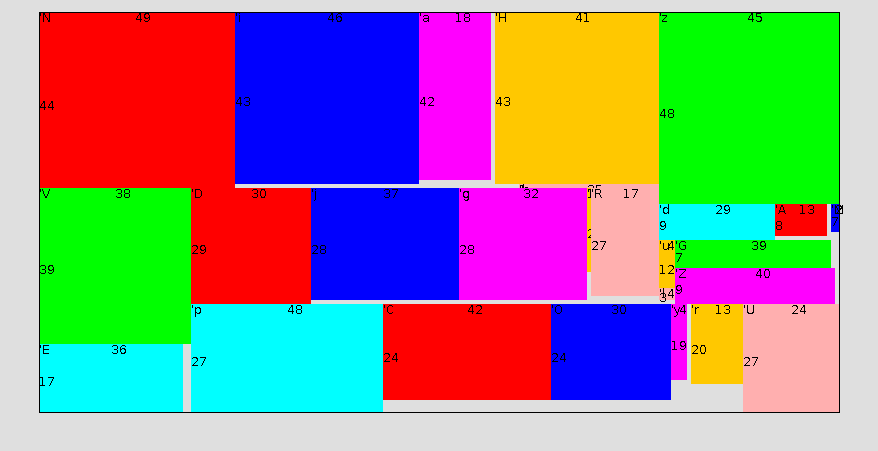
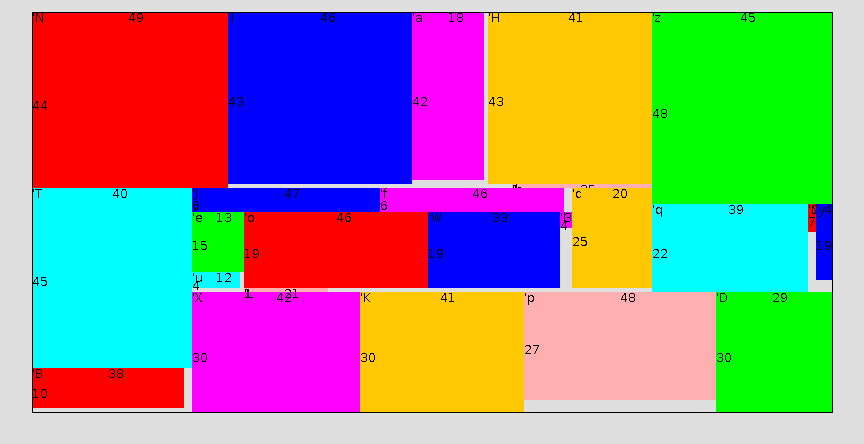
refactoring

diff --git a/README.md b/README.md
@@ -114,6 +114,6 @@ Scala 2.9.1.final (OpenJDK Server VM, Java 1.6.0_24).
 
 ### 解答.2 BEST
 
-隙間の総面積は696。
+隙間の総面積は533。
 
-![blank=696 N,i,a,H,b,z,d,A,M,Z,u,l,G,p,C,O,y,r,U,V,E,D,j,g,L,R](https://raw.github.com/tono-nakae/package-loading-problem/master/Answer2-best.png)
+![blank=533 N,i,a,H,b,z,q,M,y,X,K,p,D,T,B,J,f,c,L,e,u,o,W,l](https://raw.github.com/tono-nakae/package-loading-problem/master/Answer2-best.png)
